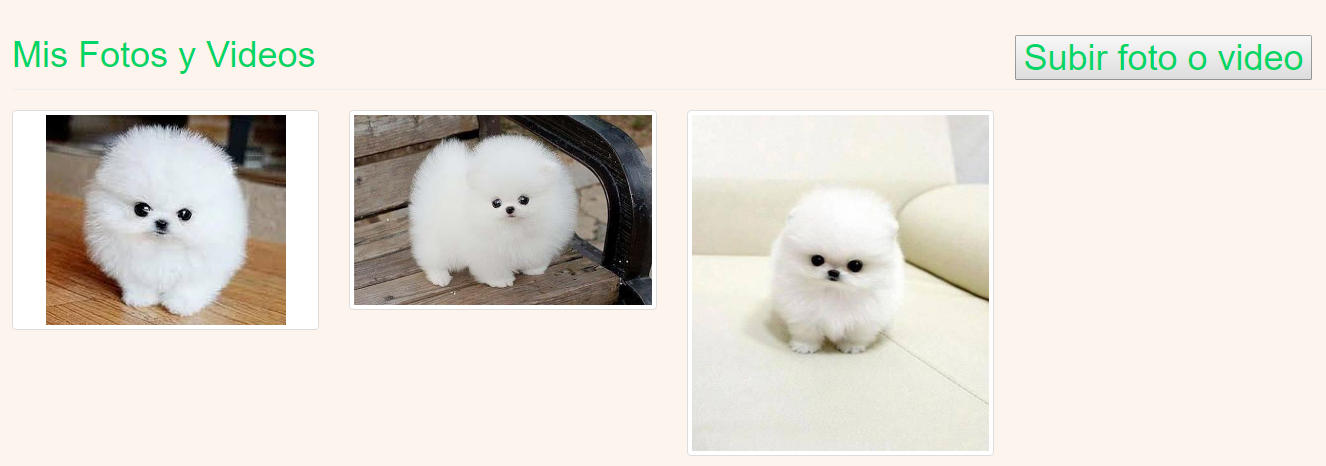
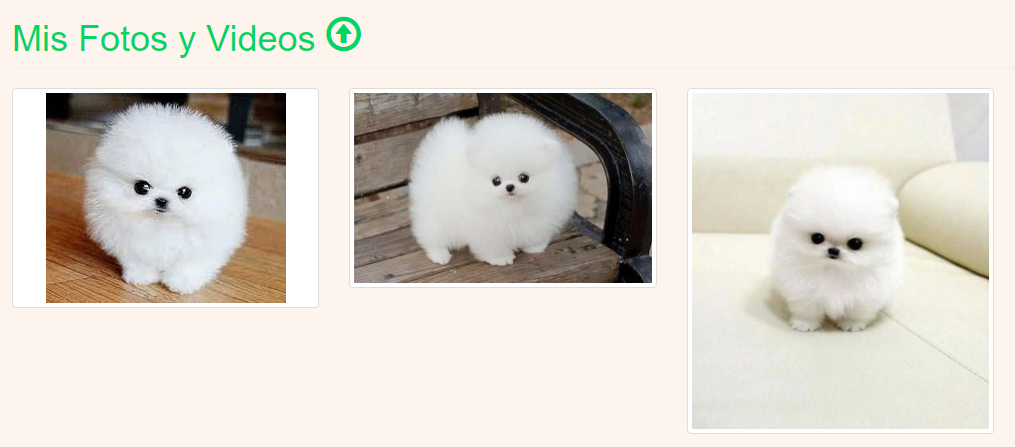
Tour 2
Cambio de fotos y texto

diff --git a/public/tour.html b/public/tour.html
@@ -89,14 +89,14 @@
 
     <div class="acercatext">
       <p class="acercap"><strong>Perfil</strong>, muestra la información sobre tu perfil. Foto de perfil, nombre, edad, tus intereses y un mapa de tu zona.</p>
-      <p class="acercap">Arriba a la derecha, accedes a tus fotos</p>
+      <p class="acercap">Pulsa el botón azul, emcima de tu foto, para acceder a tus fotos</p>
     </div>
 
     <img class="img-responsive center-block reducir" id="tourindex" src="img/tour/fotos.png" alt="Generic placeholder image">
 
     <div class="acercatext">
       <p class="acercap"><strong>Tus fotos y videos</strong>, sube fotos y videos para que tu perfil sea interesante y puedan conocerte más tus pretendientes.</p>
-      <p class="acercap">Arriba a la derecha, accedes a tus fotos</p>
+      <p class="acercap">Pulsa el botón verde para subir contenido</p>
     </div>
 
     <div class="row"></div>
